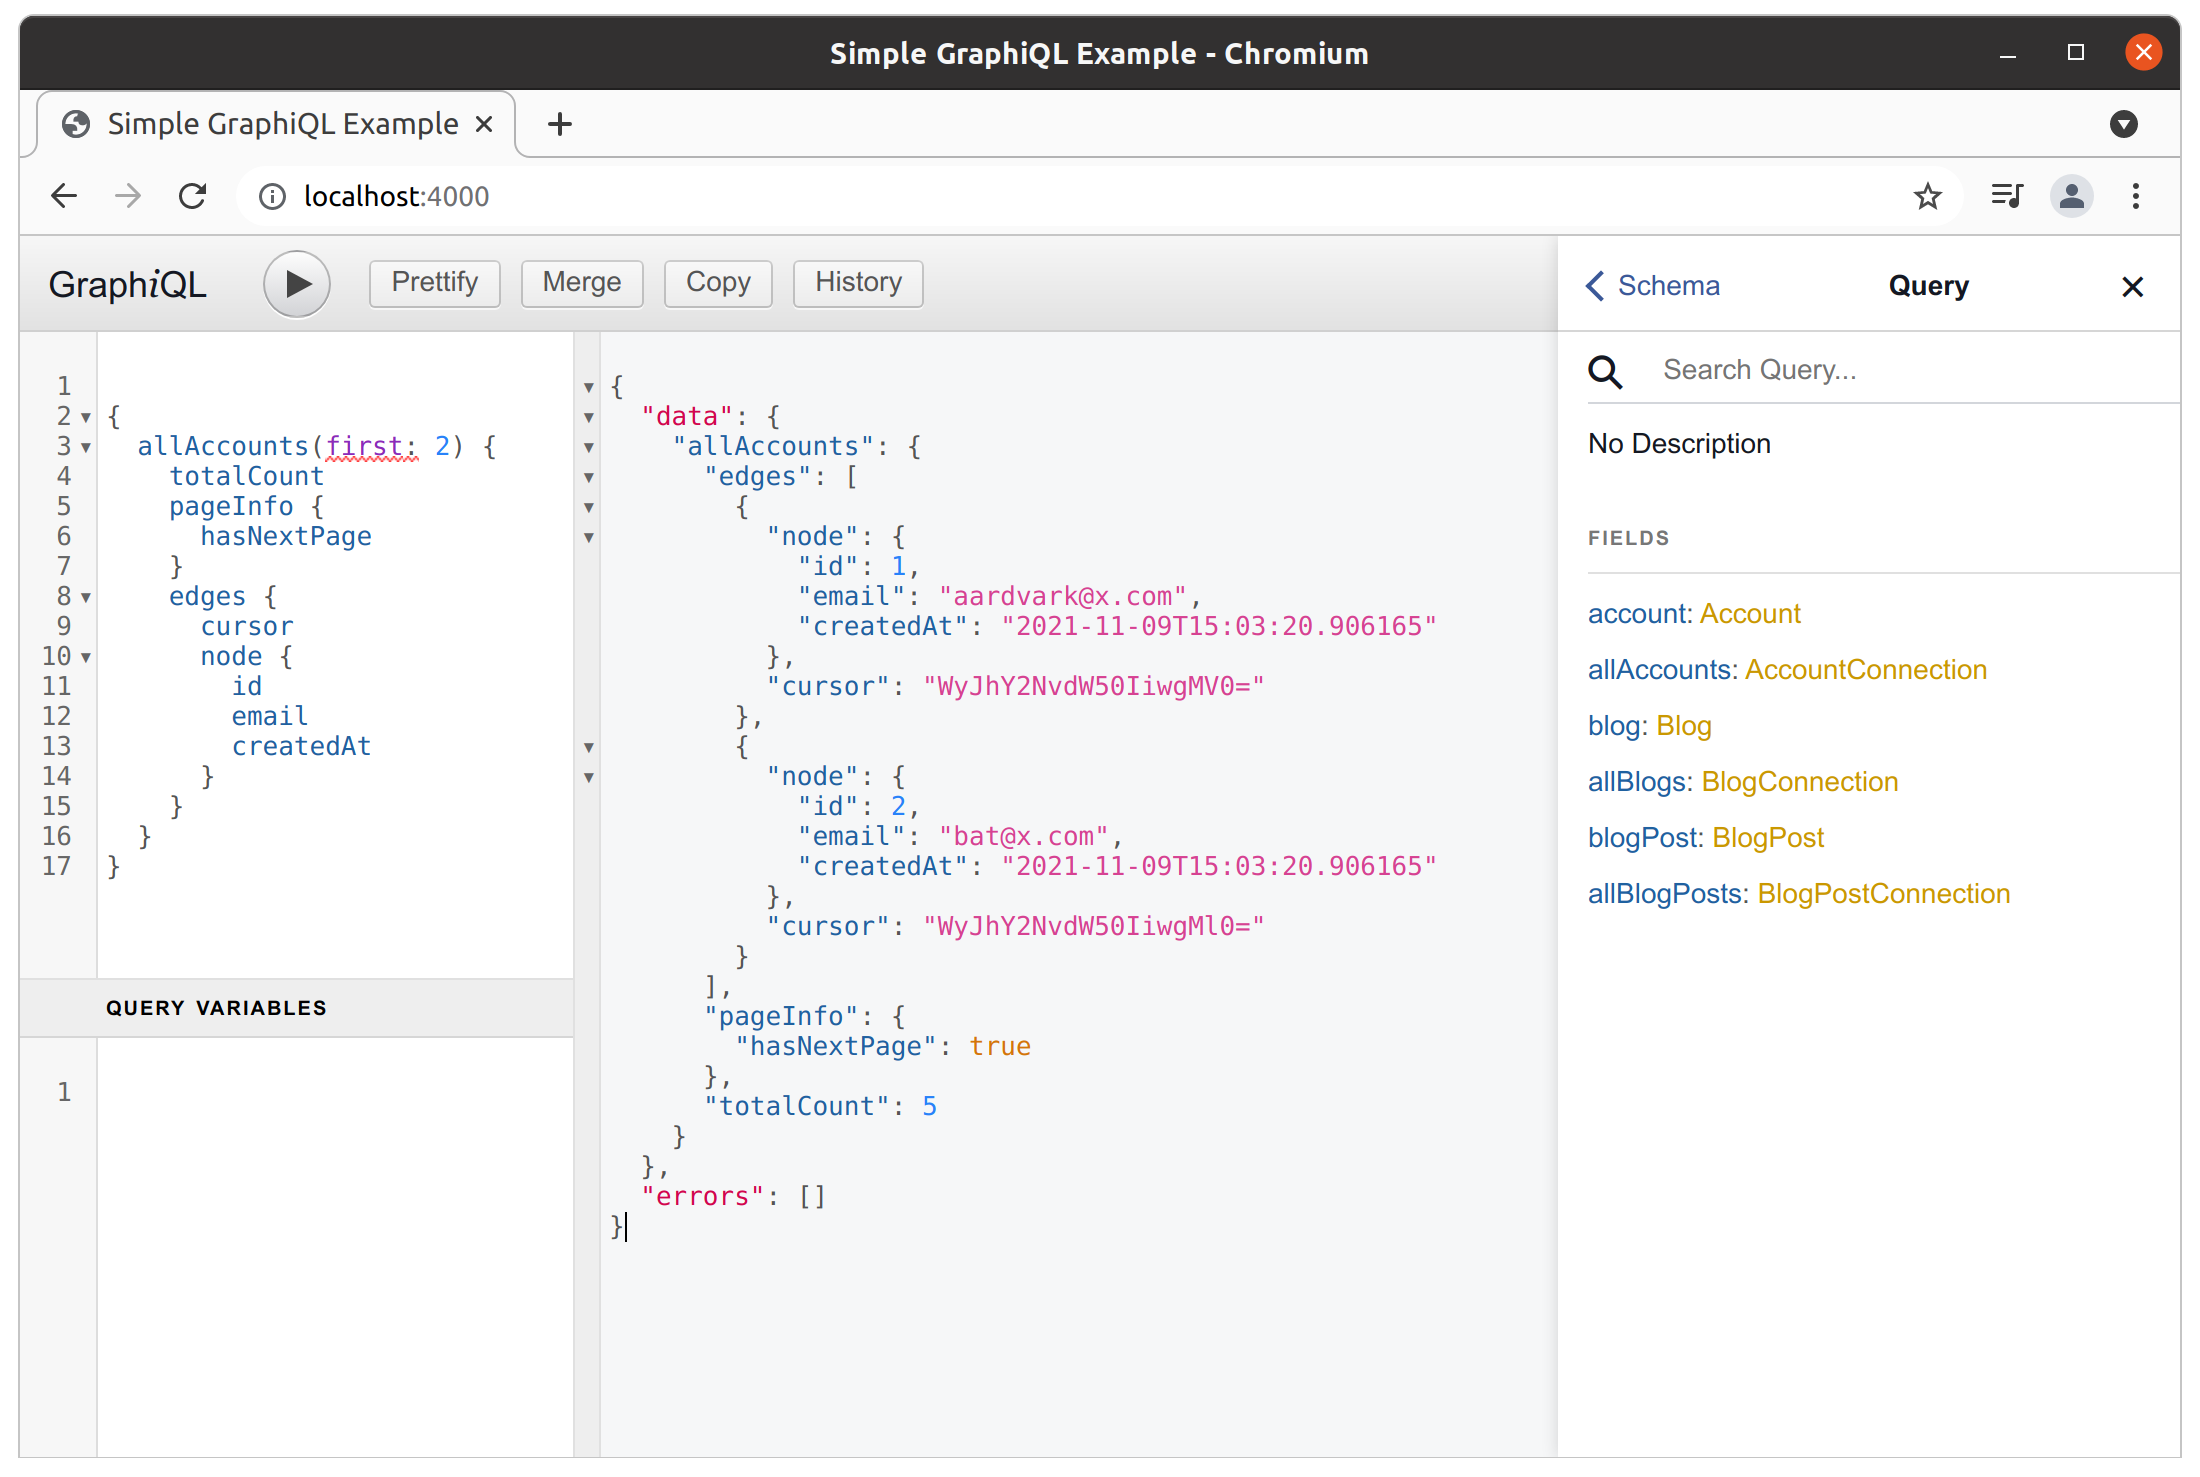
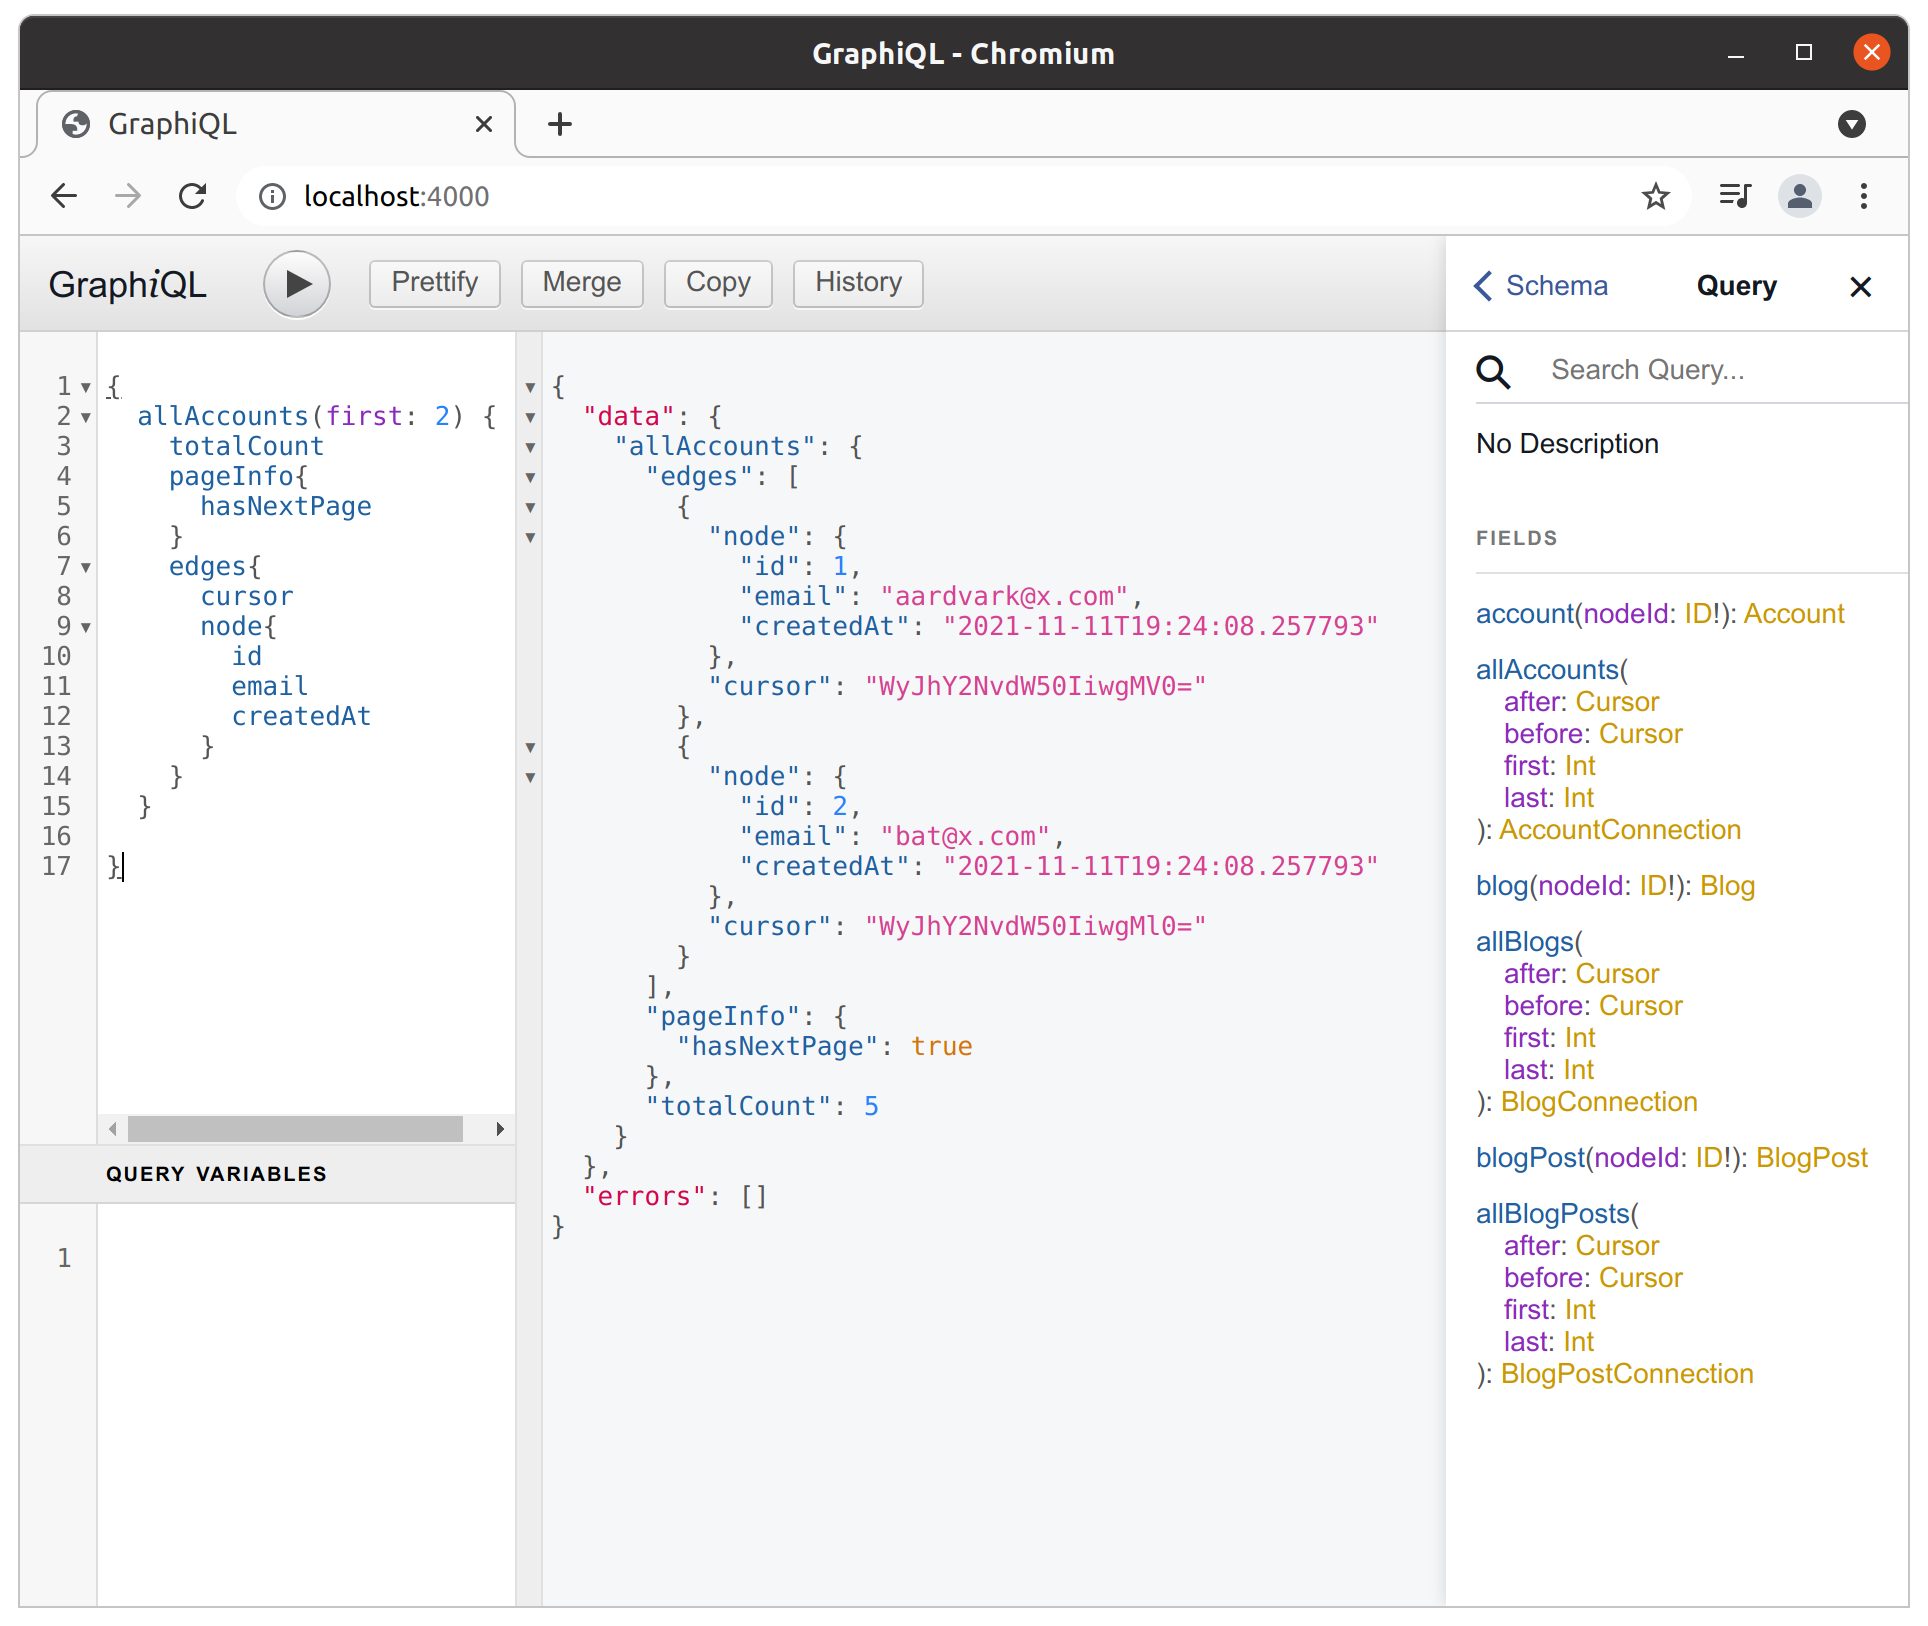
performance documentation

diff --git a/dockerfiles/graphiql/index.html b/dockerfiles/graphiql/index.html
@@ -1,6 +1,6 @@
 <html>
   <head>
-    <title>Simple GraphiQL Example</title>
+    <title>GraphiQL</title>
     <link href="https://unpkg.com/graphiql/graphiql.css" rel="stylesheet" />
   </head>
   <body style="margin: 0;">

diff --git a/docs/performance.md b/docs/performance.md
@@ -1,0 +1,69 @@
+
+On an a machine with:
+
+- 4 CPUs
+- 16GB of RAM
+- PostgreSQL 13 (docker)
+- Postgrest 8.* (docker, operating as webserver)
+
+pg_graphql served a simple query at an average rate of +2200 req/second.
+
+
+```
+This is ApacheBench, Version 2.3 <$Revision: 1843412 $>
+
+Benchmarking 0.0.0.0 (be patient)
+Finished 8000 requests
+
+
+Server Software:        postgrest/8.0.0
+Server Hostname:        0.0.0.0
+Server Port:            3000
+
+Document Path:          /rpc/graphql
+Document Length:        46 bytes
+
+Concurrency Level:      8
+Time taken for tests:   3.628 seconds
+Complete requests:      8000
+Failed requests:        0
+Total transferred:      1768000 bytes
+Total body sent:        1928000
+HTML transferred:       368000 bytes
+Requests per second:    2205.21 [#/sec] (mean)
+Time per request:       3.628 [ms] (mean)
+Time per request:       0.453 [ms] (mean, across all concurrent requests)
+Transfer rate:          475.93 [Kbytes/sec] received
+                        519.00 kb/s sent
+                        994.93 kb/s total
+
+Connection Times (ms)
+              min  mean[+/-sd] median   max
+Connect:        0    0   0.1      0       2
+Processing:     1    4   3.7      2      39
+Waiting:        0    3   3.6      2      39
+Total:          1    4   3.7      2      39
+
+Percentage of the requests served within a certain time (ms)
+  50%      2
+  66%      3
+  75%      3
+  80%      4
+  90%      7
+  95%     10
+  98%     15
+  99%     22
+ 100%     39 (longest request)
+```
+
+To reproduce this result, start the demo described in the [quickstart guide](docs/quickstart.md) and apache bench on a sample query.
+
+i.e.
+
+```shell
+docker-compose up
+
+echo '{"query": "{ account(nodeId: $nodeId) { id }}", "variables": {"nodeId": "WyJhY2NvdW50IiwgMV0="}}' > query.json
+
+ab -n 8000 -c 8 -T application/json -p query.json http://0.0.0.0:3000/rpc/graphql
+```
